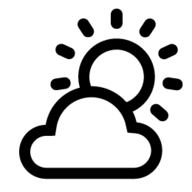
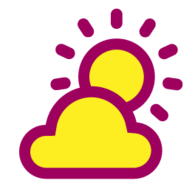
fav update, windsecion 1 word

diff --git a/src/components/today/todayWindSection.tsx b/src/components/today/todayWindSection.tsx
@@ -1,4 +1,3 @@
-import React from 'react';
 import { Container } from 'react-bootstrap';
 import { connect } from 'react-redux';
 import '../../assets/css/today.css';
@@ -8,12 +7,13 @@ import BeaufortScale from '../../services/script/beaufortScale';
 import HourlyWindChart from '../shared/hourlyWindChart';
 import MeasurementUnitSystem from '../../types/MeasurementUnitSystem';
 import IWeather from '../../models/IWeather';
+import Capitalize from '../../services/script/capitalize';
 const Compass = require("cardinal-direction");
 
 function TodayWindSection(props: IMapStateToProps): JSX.Element {
     const windSpeed: number = Math.floor(props.measurementUnit.system === MeasurementUnitSystem.metric ? props.weather.dailyWeather![0].wind_speed * (18 / 5) : props.weather.dailyWeather![0].wind_speed);
     const beaufortScale: BeaufortScale = new BeaufortScale(props.weather.dailyWeather![0].wind_speed, props.measurementUnit.system)
-    const windDescription: string = beaufortScale.description;
+    const windDescription: string = new Capitalize(beaufortScale.description).firstWord;
     const deg: number = props.weather.dailyWeather![0].wind_deg + 180;
     const windDirection: string = Compass.cardinalConverter(Compass.cardinalFromDegree(deg - 180, Compass.CardinalSubset.Ordinal));
 

diff --git a/public/index.html b/public/index.html
@@ -8,9 +8,9 @@
     <link rel="icon" type="image/png" sizes="32x32" href="/favicon-32x32.png">
     <link rel="icon" type="image/png" sizes="16x16" href="/favicon-16x16.png">
     <link rel="manifest" href="/site.webmanifest">
-    <link rel="mask-icon" href="/safari-pinned-tab.svg" color="#5bbad5">
-    <meta name="msapplication-TileColor" content="#ffc40d">
-    <meta name="theme-color" content="#ffffff">
+    <link rel="mask-icon" href="/safari-pinned-tab.svg" color="#9e005d">
+    <meta name="msapplication-TileColor" content="#fcee21">
+    <meta name="theme-color" content="#fcee21">
     
     <meta
       name="description"
